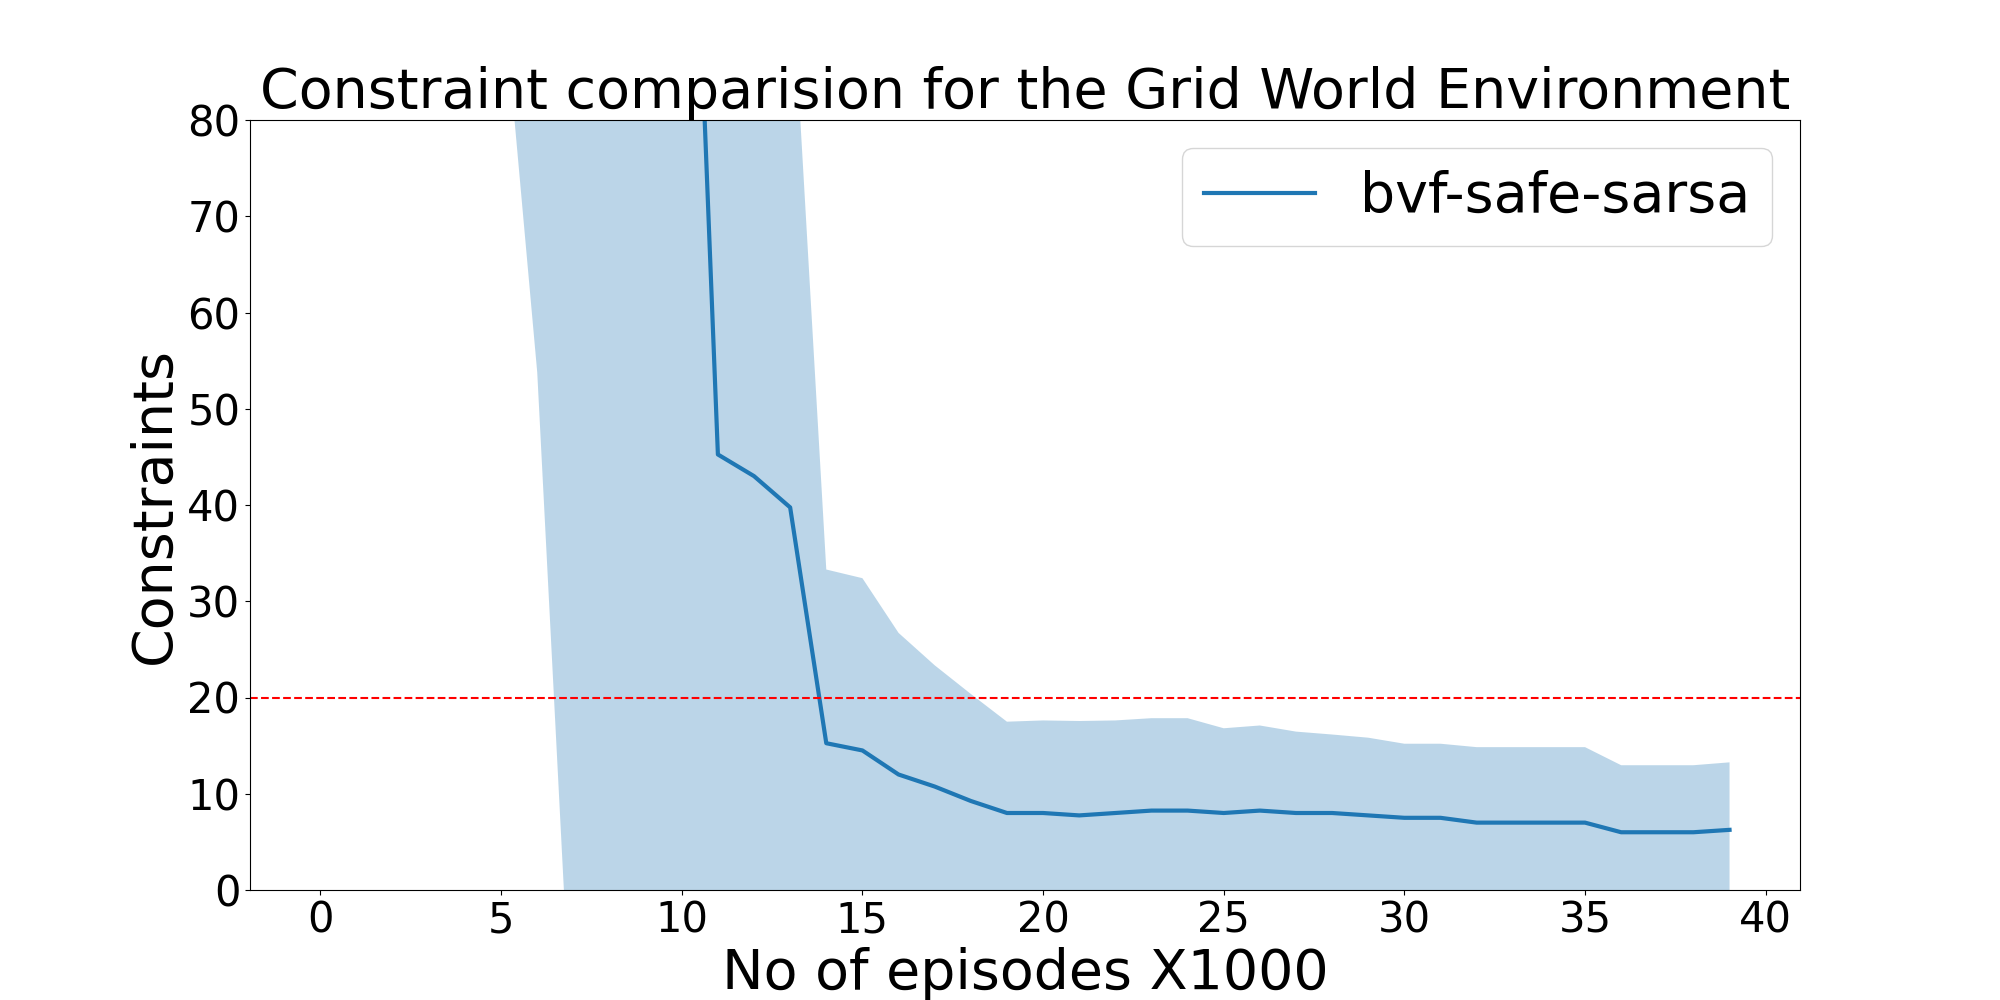
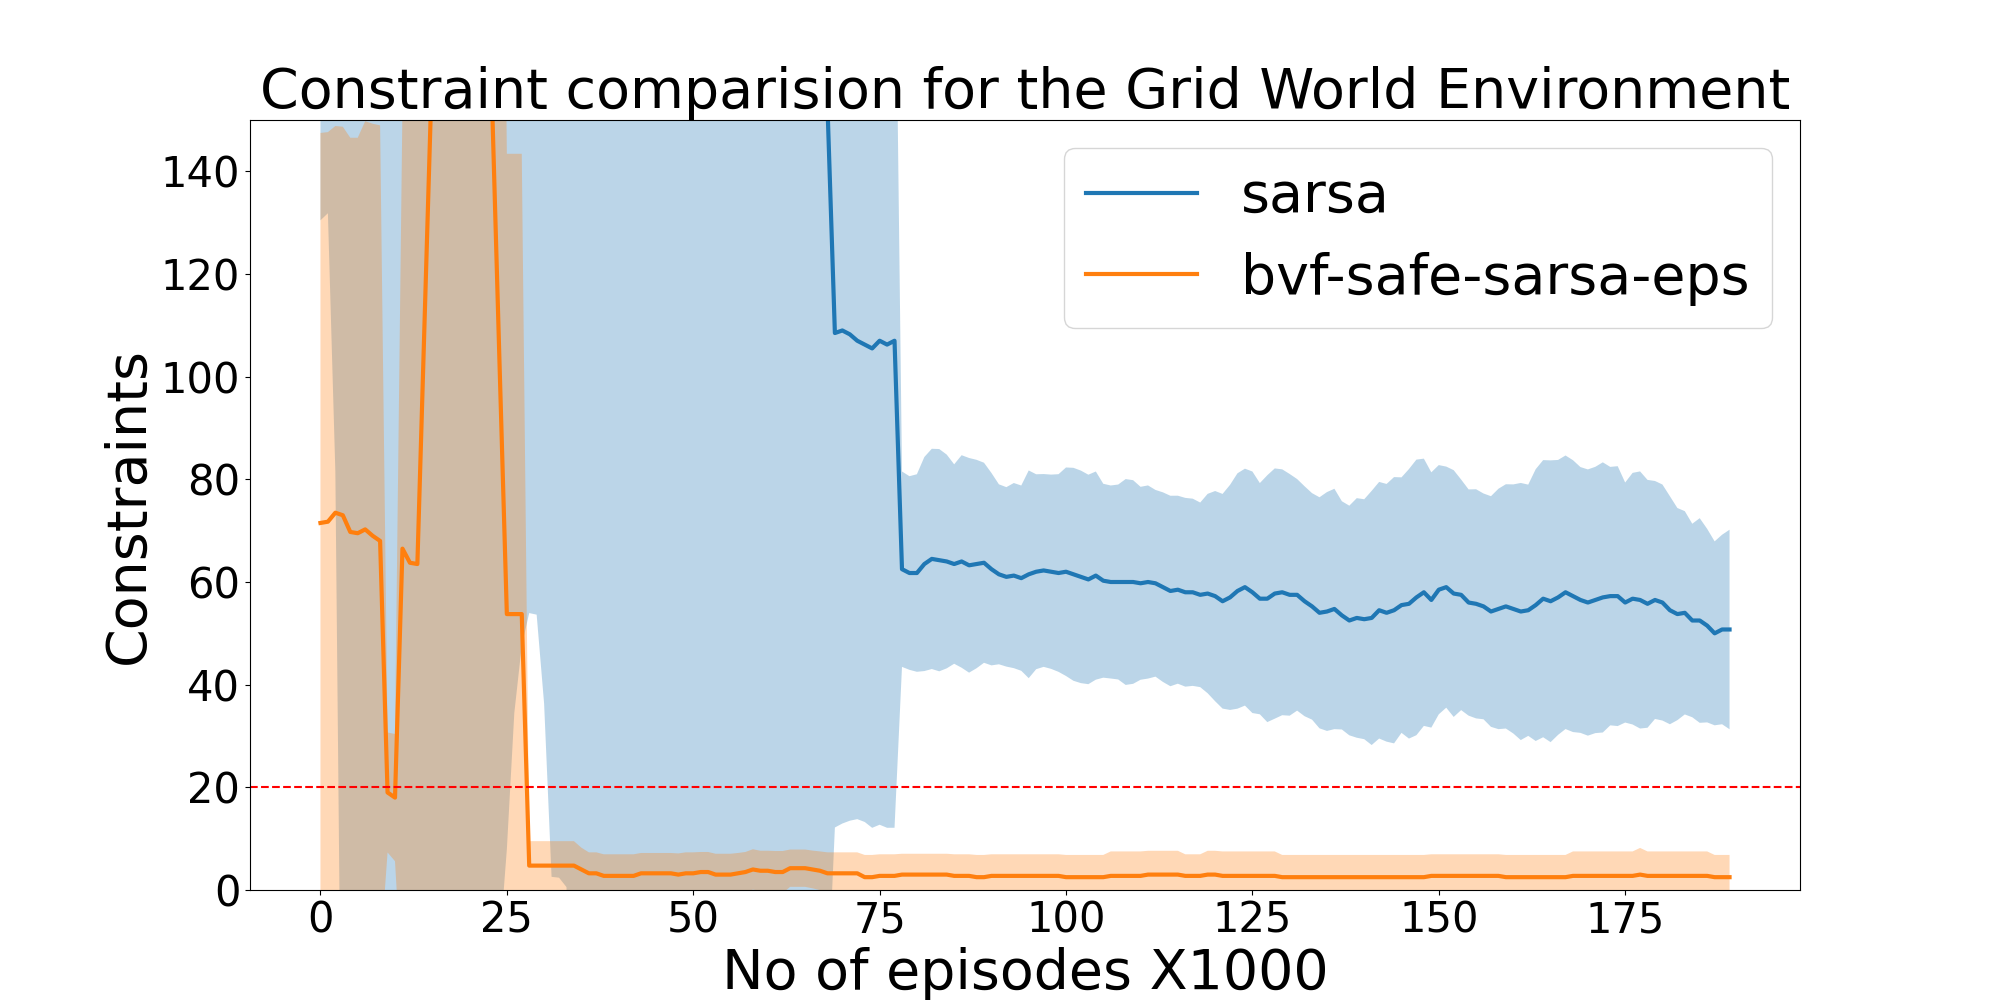
random

diff --git a/agents/past/safe_sarsa_agent.py b/agents/past/safe_sarsa_agent.py
@@ -175,6 +175,70 @@ class SafeSarsaAgent(object):
 
         return action
 
+    def safe_deterministic_pi_softmax(self, state,  current_cost=0.0, greedy_eval=False):
+        """
+        take the action based on the current policy
+        """
+
+        with torch.no_grad():
+            q_value = self.dqn(state)
+
+            # Q_D(s,a)
+            cost_q_val = self.cost_model(state)
+            cost_r_val = self.review_model(state)
+
+            softmax = torch.nn.Softmax(dim=1)
+
+            constraint_mask = torch.le(cost_q_val + cost_r_val, self.args.d0 + current_cost).float()
+            filtered_Q = (q_value + 1000.0) * (constraint_mask)
+
+            c_sum = constraint_mask.sum(1)
+            action_mask = (c_sum == torch.zeros_like(c_sum)).cpu().numpy()
+            
+
+            filtered_action = filtered_Q.max(1)[1].cpu().numpy()
+
+            # alt action to take if infeasible solution
+            # minimize the cost
+            alt_action = (-1. * cost_q_val).max(1)[1].cpu().numpy()
+
+            prob  = softmax(q_value)
+            action_space = [i for i in range(self.action_dim)]
+
+            c = torch.cumsum(prob, dim=1)
+            c = c.cpu().detach().numpy()
+            u = np.random.rand(c.shape[0], 1)
+        #print(prob, c, u)
+
+            action = (u < c).argmax(axis=1)
+
+        return action
+        with torch.no_grad():
+            # to take random action or not
+            if (random.random() > self.eps_decay.value(self.total_steps)) or greedy_eval:
+                # No random action
+                q_value = self.dqn(state)
+
+                # Q_D(s,a)
+                cost_q_val = self.cost_model(state)
+                cost_r_val = self.review_model(state)
+
+                # find the action set
+                # create the filtered mask here
+
+
+
+
+                action = (1 - action_mask) * filtered_action + action_mask * alt_action
+
+                return action
+
+            else:
+                # create an array of random indices, for all the environments
+                action = np.random.randint(0, high=self.action_dim, size = (self.args.num_envs, ))
+
+        return action
+
 
     def compute_n_step_returns(self, next_value, rewards, masks):
         """
@@ -227,6 +291,7 @@ class SafeSarsaAgent(object):
         """
         learning happens here
         """
+        self.policy = self.safe_deterministic_pi_softmax
 
         self.total_steps = 0
         self.eval_steps = 0
@@ -265,7 +330,7 @@ class SafeSarsaAgent(object):
                 state = torch.FloatTensor(state).to(self.device)
 
                 # get the action
-                action = self.safe_deterministic_pi(state, current_cost= current_cost)
+                action = self.policy(state, current_cost= current_cost)
                 next_state, reward, done, info = self.envs.step(action)
 
                 # convert it back to tensor
@@ -366,7 +431,7 @@ class SafeSarsaAgent(object):
             # calculate targets here
             next_state = torch.FloatTensor(next_state).to(self.device)
             next_q_values = self.dqn(next_state)
-            next_action = self.safe_deterministic_pi(next_state, current_cost)
+            next_action = self.policy(next_state, current_cost)
             next_action = torch.LongTensor(next_action).unsqueeze(1).to(self.device)
             next_q_values = next_q_values.gather(1, next_action)
 

diff --git a/plot.py b/plot.py
@@ -14,42 +14,65 @@ for i in a:
 no_experiments = 4
 R = []
 C = []
+R_safe = []
+C_safe = []
 
 for i in range(no_experiments):
-    R.append(torch.load("results/grid/safe_sarsa/r" + str(i+1))[:l])
-    C.append(torch.load("results/grid/safe_sarsa/c" + str(i+1))[0:l])
+    R.append(torch.load("results/grid/sarsa/r" + str(i + 1))[:l])
+    C.append(torch.load("results/grid/sarsa/c" + str(i + 1))[0:l])
+    R_safe.append(torch.load("results/grid/safe_sarsa/r" + str(i+1))[:l])
+    C_safe.append(torch.load("results/grid/safe_sarsa/c" + str(i+1))[0:l])
 
 R_avg = []
 C_avg = []
+R_safe_avg = []
+C_safe_avg = []
 
 for j in range(len(R)):
     r_avg = []
     c_avg = []
-    for i in range(10,len(R[0])):
-        r_avg.append(np.mean(R[j][i-10:i]))
-        c_avg.append(np.mean(C[j][i-10:i]))
+    r_safe_avg = []
+    c_safe_avg = []
+    for i in range(10,len(R_safe[0])):
+        r_avg.append(np.mean(R[j][i - 10:i]))
+        c_avg.append(np.mean(C[j][i - 10:i]))
+        r_safe_avg.append(np.mean(R_safe[j][i-10:i]))
+        c_safe_avg.append(np.mean(C_safe[j][i-10:i]))
 
     R_avg.append(r_avg)
     C_avg.append(c_avg)
+    R_safe_avg.append(r_safe_avg)
+    C_safe_avg.append(c_safe_avg)
 
 R_avg = np.array(R_avg)
 C_avg = np.array(C_avg)
+R_safe_avg = np.array(R_safe_avg)
+C_safe_avg = np.array(C_safe_avg)
 
 R_mean = np.mean(R_avg, axis=0)
 C_mean = np.mean(C_avg, axis=0)
+R_safe_mean = np.mean(R_safe_avg, axis=0)
+C_safe_mean = np.mean(C_safe_avg, axis=0)
 
 R_std = np.std(R_avg, axis=0)
 C_std = np.std(C_avg, axis=0)
+R_safe_std = np.std(R_safe_avg, axis=0)
+C_safe_std = np.std(C_safe_avg, axis=0)
 
 
-x = [i for i in range(len(R_mean))]
-legend = ["bvf-safe-sarsa"]
+x = [i for i in range(len(R_safe_mean))]
+legend = ["sarsa", "bvf-safe-sarsa-eps", ]
 
 fig, ax = plt.subplots(1, 1, figsize=(20, 10))
 plt.tick_params(axis='both', which='major', labelsize=30)
-plt.plot(x, R_mean, linewidth=5)
-plt.fill_between(x, R_mean + R_std, R_mean - R_std, alpha = 0.3)
-plt.legend(legend, prop={'size':40})
+
+plt.plot(x, R_mean, label=legend[0], linewidth=5)
+plt.fill_between(x, R_mean + R_std, R_mean - R_std, alpha = 0.1)
+
+plt.plot(x, R_safe_mean, label=legend[1], linewidth=5)
+plt.fill_between(x, R_safe_mean + R_safe_std, R_safe_mean - R_safe_std, alpha = 0.1)
+
+plt.legend( prop={'size':40})
 plt.xlabel('No of episodes X1000', size=40)
 plt.ylabel("Reward", size=40)
 plt.title("Reward comparision for the Grid World Environment", size=40)
@@ -59,15 +82,21 @@ plt.close(fig)
 
 fig, ax = plt.subplots(1, 1, figsize=(20, 10))
 plt.tick_params(axis='both', which='major', labelsize=30)
-plt.plot(x, C_mean, linewidth=3)
+
+
+plt.plot(C_mean, label=legend[0], linewidth=3)
 plt.fill_between(x, C_mean + C_std, C_mean - C_std, alpha = 0.3)
+
+plt.plot(C_safe_mean, label=legend[1], linewidth=3)
+plt.fill_between(x, C_safe_mean + C_safe_std, C_safe_mean - C_safe_std, alpha = 0.3)
+
 plt.axhline(y=20, color='r', linestyle='--')
-plt.legend(legend,prop={'size':40})
+plt.legend(prop={'size':40})
 plt.xlabel('No of episodes X1000', size=40)
 plt.ylabel("Constraints", size=40)
 plt.title("Constraint comparision for the Grid World Environment", size=40)
 name = "figures/grid/Constraints"
 
-ax.set_ylim(0, 80)
+ax.set_ylim(0, 150)
 plt.savefig(name)
 plt.close(fig)

diff --git a/agents/ours/hrl_sarsa_agent.py b/agents/ours/hrl_sarsa_agent.py
@@ -36,6 +36,7 @@ class HRL_Discrete_Goal_SarsaAgent(object):
         """
         init the agent here
         """
+        args.num_envs = 1
         if goal_space == None:
             goal_space = args.goal_space
         else:
@@ -56,7 +57,8 @@ class HRL_Discrete_Goal_SarsaAgent(object):
         s = env.reset()
         self.state_dim = s.shape
         self.action_dim = env.action_space.n
-        self.goal_dim = self.G.action_shape
+
+        self.goal_dim = self.G.action_shape[0]
         self.goal_state_dim = np.concatenate((s,s)).shape
 
         self.device = torch.device("cuda" if (torch.cuda.is_available() and  self.args.gpu) else "cpu")
@@ -112,7 +114,7 @@ class HRL_Discrete_Goal_SarsaAgent(object):
 
         #decide on weather to use total step or just the meta steps for this annealing
         self.eps_u = self.eps_u_decay.value(self.total_steps)
-        self.eps_l = self.eps_l_decay.value(self.total_lower_time_step)
+        self.eps_l = self.eps_l_decay.value(self.total_lower_time_steps)
 
         # for storing resutls
         self.results_dict = {
@@ -214,6 +216,8 @@ class HRL_Discrete_Goal_SarsaAgent(object):
                 goal = self.pi_meta(state=state)
 
                 goal = torch.LongTensor(goal).unsqueeze(1).to(self.device)
+
+                print(goal)
                 q_values_upper = self.dqn_meta(state)
                 Q_value_upper = q_values_upper.gather(1, goal)
 

diff --git a/common/ours/arguments.py b/common/ours/arguments.py
@@ -11,7 +11,7 @@ def get_args():
     # Env
     parser = argparse.ArgumentParser(description='collect arguments')
 
-    parser.add_argument('--save_dir', type=str, default="results/grid/hrl_sarsa/")
+    parser.add_argument('--save_dir', type=str, default="results/grid/hrl-sarsa/")
     parser.add_argument('--exp_no', type=str, default="1")
     parser.add_argument("--goal_space", type=list, default=[[124, 83, 76, 8, 118, 57]])  #this is for dicrete goal setting in an HRL setup
 
